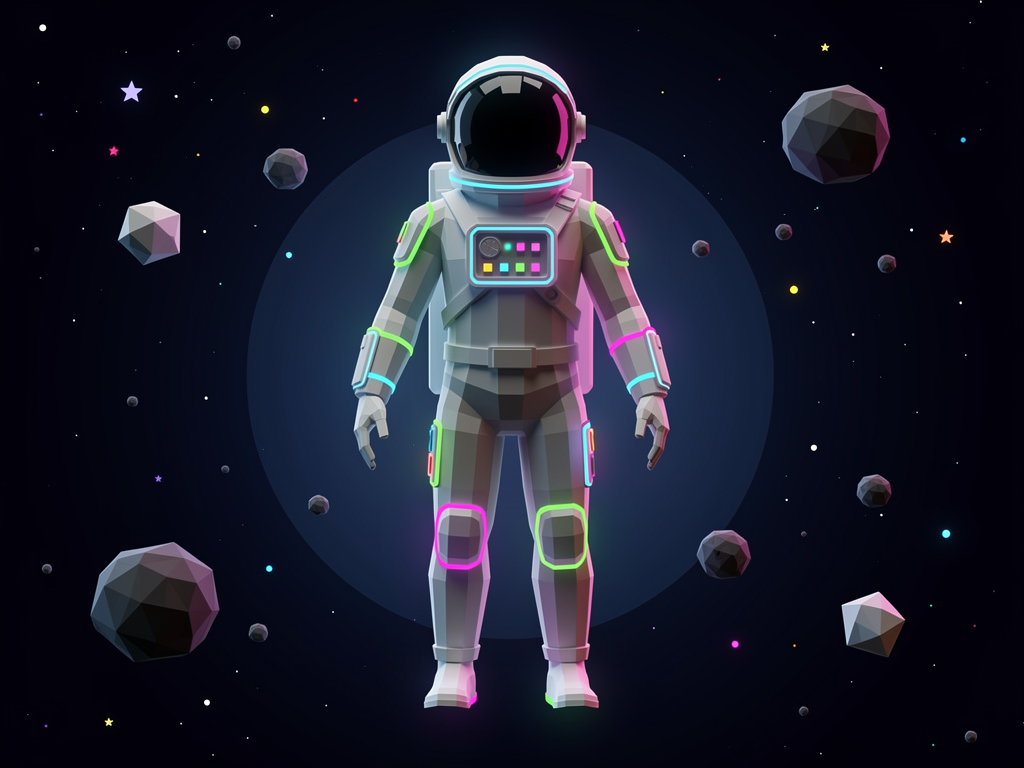
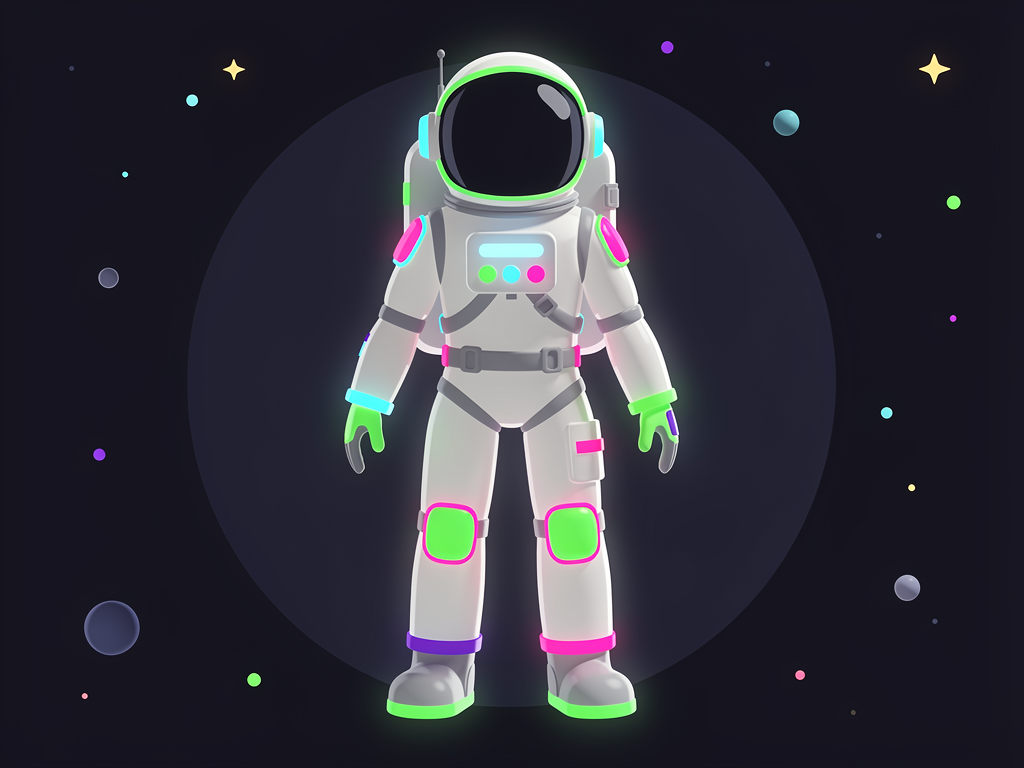
Replace mascot style frame with smooth-geometry version
Regenerated under the new art direction: smooth capsule limbs and spherical
helmet, no facets, with the ~7-head Mannequin proportions retained and the
background elements calmed so they no longer compete with the figure.

Notes in the asset README that the frame's residual PBR gloss is NOT to be
copied — flat vector-look shading is applied in three.js via the material,
since diffusion models resist it.

Claude-Session: https://claude.ai/code/session_01B5eebUgm9vKfftecGZKNAT

diff --git a/Part1_WalkOnWalls/Assets/README.md b/Part1_WalkOnWalls/Assets/README.md
@@ -5,18 +5,24 @@
 The series mascot style frame, generated on Comfy Cloud (Flux 2 Pro) from the
 Appendix A art direction in `../Scripts/Custom-Gravity-Part1-Script.md`.
 
-Proportions are deliberately **realistic adult (~7 heads tall)**, not chibi, so
-the mascot reads as the same body as the UE5 Mannequin in the screen-capture
-footage. An earlier 4-heads-tall version was rejected for that reason.
+**Read it for:** proportion, silhouette, palette, and neon-trim placement.
 
-This is a **style reference**, not a production asset — the Remotion mograph
-builds the astronaut from three.js geometry.
+- Proportions are **realistic adult, ~7 heads tall** — deliberately matching the
+  UE5 Mannequin in the screen-capture footage. An earlier 4-heads-tall chibi
+  version was rejected: a mascot that reads as a different character from the
+  one on screen defeats the purpose of the insert.
+- Geometry is **smooth** — capsule limbs, spherical helmet, no facets.
 
-> ⚠ **Shading is superseded.** This frame is faceted low-poly, from the original
-> art direction. The series has since moved to **smooth 3D geometry with flat
-> vector-look shading** (see Appendix A of the Part 1 script). Read this frame
-> for **proportion and palette only** — not for its facets or its soft
-> "realistic render" gradients.
+> ⚠ **Do not copy its shading.** The frame still carries soft PBR gradients and
+> a specular highlight on the visor. Appendix A calls for **flat vector-look
+> shading** — `MeshBasicMaterial`, or `MeshToonMaterial` with a 2-step
+> `gradientMap`, and no specular. Diffusion models are heavily biased toward
+> glossy 3D renders and resist flat shading, so this was not worth more
+> generations to chase: the flat look is applied precisely in three.js, where we
+> control the material directly.
+
+This is a **reference**, not a production asset — the mograph builds the
+astronaut from three.js geometry.
 
 Pose is a relaxed A-pose, which also makes it a usable plate if the mascot is
 ever converted to a mesh (e.g. via the `api_tripo_multiview_to_model` workflow).
